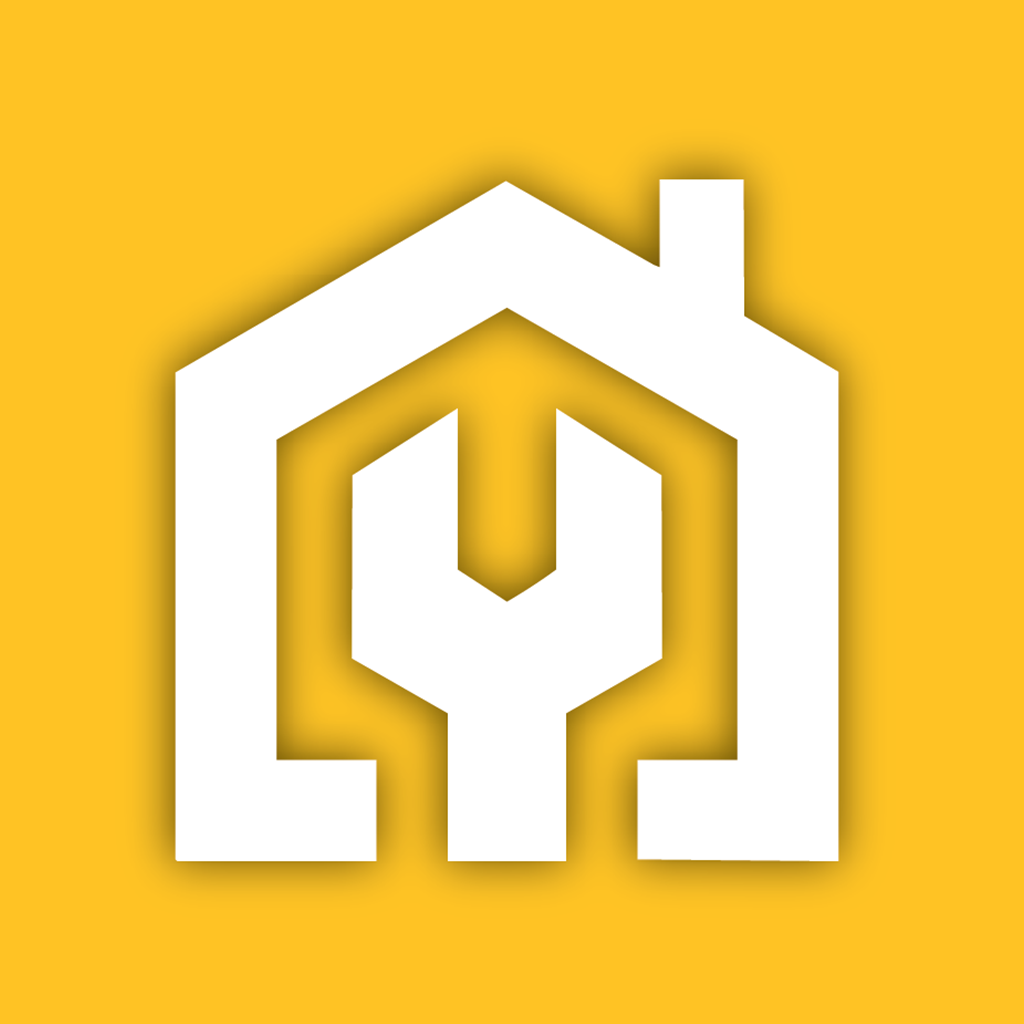
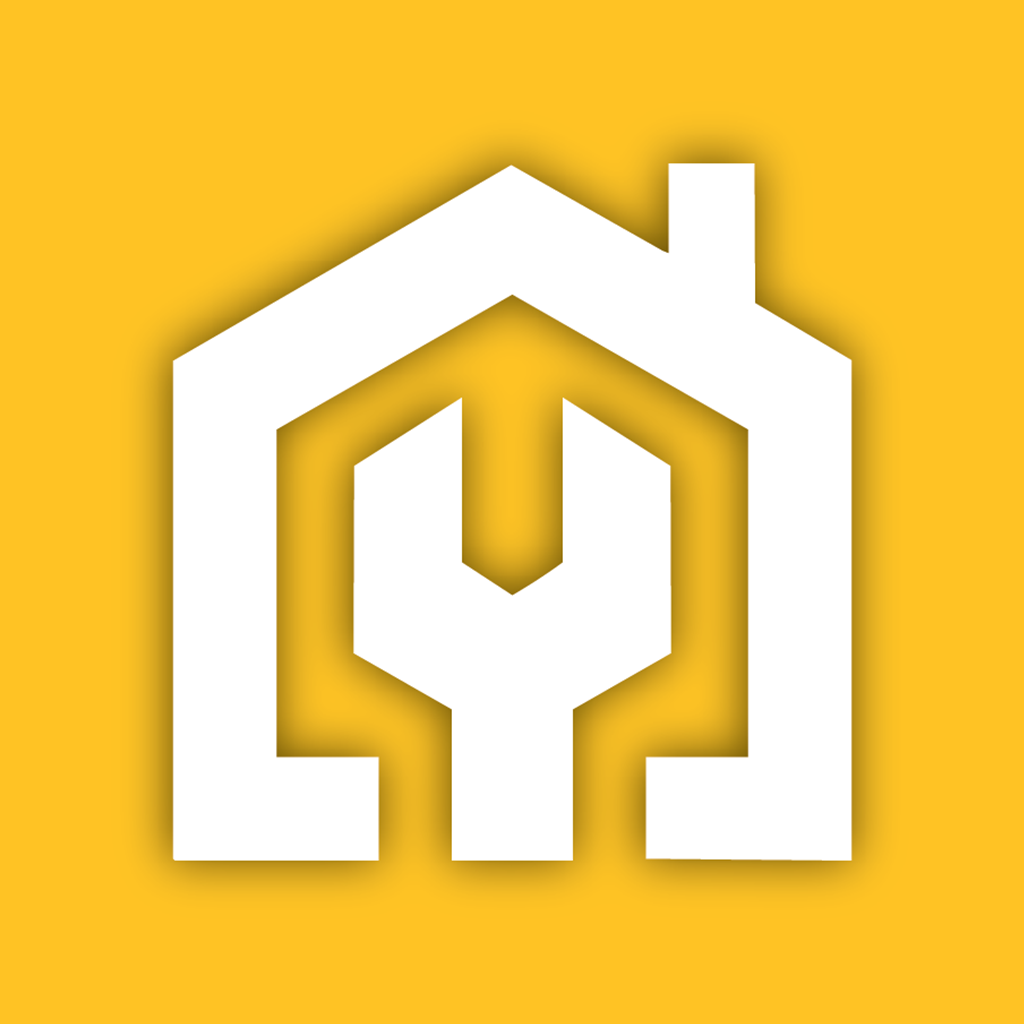
Add files via upload

diff --git a/www/index.html b/www/index.html
@@ -584,15 +584,15 @@
 /* ---- إعدادات المؤسسة (قابلة للتعديل) ---- */
 const BRAND = 'خافِت';
 const TAGLINE = 'صيانة منزلية موثوقة';
-const PHONE    = '[phone redacted]';        // رقم التواصل (عدّليه)
-const WHATSAPP = '[phone redacted]';      // واتساب بصيغة دولية بدون + (عدّليه)
+const PHONE    = '[phone redacted]';        // رقم التواصل (عدّله)
+const WHATSAPP = '[phone redacted]';      // واتساب بصيغة دولية بدون + (عدّله)
 const HOURS    = 'يومياً ٨ ص – ١٠ م'; // ساعات العمل
 const CITY     = 'الخبر';             // منطقة التغطية
 const WARRANTY = 'ضمان ٧ أيام';       // الضمان
 /* لوحة المؤسسة انتقلت لصفحة admin.html بحساب Supabase — ما عاد فيه رمز هنا */
 /* أيام الإجازة — ما نستقبل فيها حجوزات.
    الترقيم: ٠=الأحد ١=الإثنين ٢=الثلاثاء ٣=الأربعاء ٤=الخميس ٥=الجمعة ٦=السبت
-   حالياً: الجمعة إجازة. تبين تضيفين السبت؟ خليها [5,6] */
+   حالياً: الجمعة إجازة. لإضافة السبت اجعلها [5,6] */
 const OFF_DAYS = [5];
 const WORK_START = 8 * 60;
 const WORK_END   = 22 * 60;
@@ -604,7 +604,6 @@ const MAX_JOBS_PER_DAY = 8;    // أقصى عدد حجوزات في اليوم (
 const QUICK_DURATION   = 90;   // مدة افتراضية أكبر للطلب السريع/المعاينة (حجمه مجهول)
 const LOYALTY_TARGET = 5;   // كل ٥ طلبات مدفوعة، السادس مجاني كامل
 const COMMISSION = 3;       // عمولة المنصة لكل طلب مكتمل عبر مزوّد (مخفية عن العميل)
-// أكواد الخصم (عدّليها/أضيفي أكواد — الكود : نسبة الخصم %)
 /* أكواد الخصم الثابتة أُلغيت — صار النظام أكواد إحالة شخصية عشوائية
    يولّدها الخادم ويتحقّق منها (خصم ١٠٪ لأول طلب + ٥ ر.س للمُحيل بعد الإنجاز). */
 // باقات الاشتراك السنوي (النموذج الآمن — مو «لا محدودة»)
@@ -631,7 +630,7 @@ const PLANS = [
 ];
 const SAVE_KEY = 'siyanah_v1';
 
-/* ---- ربط قاعدة البيانات Supabase (غيّري القيمتين بمفاتيح مشروعك لو مختلف) ---- */
+/* ---- ربط قاعدة البيانات Supabase (غيّر القيمتين بمفاتيح مشروعك لو مختلف) ---- */
 const SUPABASE_URL  = 'https://zulogtqxbuqxmdmjpzqj.supabase.co';
 const SUPABASE_ANON = 'sb_publishable_ssggqTzT4GG4sreXV1LObQ_C3yiYhaG';
 
@@ -812,13 +811,17 @@ function getPushPlugin(){
   try{ if(typeof C.registerPlugin==='function') return C.registerPlugin('PushNotifications'); }catch(e){}
   return (C.Plugins && C.Plugins.PushNotifications) || null;
 }
+let _pn=null, _pnReady=false;
 async function initPush(){
   if(!inApp()){ setPushState('متصفح — الإشعارات للتطبيق فقط'); return; }
   try{
-    const PN = getPushPlugin();
+    const PN = _pn || getPushPlugin();
     if(!PN){ setPushState('❌ إضافة الإشعارات غير مثبّتة'); return; }
+    _pn = PN;
+    if(_pnReady) return void registerNow(PN);   // المستمعات مركّبة — أعد الطلب فقط
 
-    PN.addListener('registration', async (t)=>{
+    // ⚠️ لازم *ننتظر* تركيب المستمعات قبل register — وإلا يوصل ردّ آبل وما فيه أحد يسمعه
+    await PN.addListener('registration', async (t)=>{
       try{
         if(!myUid) await ensureAnonSession();
         const { error } = await sb.from('khafet_devices').upsert(
@@ -829,15 +832,22 @@ async function initPush(){
         setPushState('✅ الجهاز مسجّل — الإشعارات شغّالة');
       }catch(e){ setPushState('❌ فشل حفظ الجهاز: '+(e.message||e)); }
     });
-    PN.addListener('registrationError', e=> setPushState('❌ رفضتها آبل: '+JSON.stringify(e)));
-    PN.addListener('pushNotificationActionPerformed', ()=>{ go('mybookings'); });
-
+    await PN.addListener('registrationError', e=> setPushState('❌ رفضتها آبل: '+JSON.stringify(e)));
+    await PN.addListener('pushNotificationActionPerformed', ()=>{ go('mybookings'); });
+    _pnReady = true;
+    await registerNow(PN);
+  }catch(e){ setPushState('❌ خطأ: '+(e.message||e)); }
+}
+async function registerNow(PN){
+  try{
     let perm = await PN.checkPermissions();
     if(perm.receive === 'prompt' || perm.receive === 'prompt-with-rationale') perm = await PN.requestPermissions();
-    if(perm.receive !== 'granted'){ setPushState('⚠️ الإذن مرفوض ('+perm.receive+') — فعّليه من إعدادات الآيفون'); return; }
+    if(perm.receive !== 'granted'){ setPushState('⚠️ الإذن مرفوض ('+perm.receive+') — فعّله من إعدادات الآيفون'); return; }
     setPushState('⏳ نسجّل الجهاز…');
     await PN.register();
-  }catch(e){ setPushState('❌ خطأ: '+(e.message||e)); }
+    // لو آبل ما ردّت خلال ١٥ ثانية، قل ذلك بدل ما تعلّق للأبد
+    setTimeout(()=>{ if(pushState.indexOf('⏳')===0) setPushState('⚠️ آبل ما ردّت — تأكد من الإنترنت واضغط «أعد المحاولة»'); }, 15000);
+  }catch(e){ setPushState('❌ خطأ بالتسجيل: '+(e.message||e)); }
 }
 // حمّل الأسعار المعدّلة من لوحة المؤسسة وطبّقها على الكتالوج
 async function loadPrices(){
@@ -923,7 +933,7 @@ async function loadOrdersFromCloud(){
     if(cloudFails>=3){
       cloudReady=false;
       try{ sb.removeAllChannels(); }catch(_){}
-      console.warn('خافِت: أوقفت المزامنة السحابية — شغّلي ملف supabase/orders.sql ثم أعيدي تحميل الصفحة. الموقع يعمل محلياً الآن.');
+      console.warn('خافِت: أوقفت المزامنة السحابية — شغّل ملف supabase/orders.sql ثم أعيدي تحميل الصفحة. الموقع يعمل محلياً الآن.');
     }
   }finally{ cloudLoading=false; }
 }
@@ -1076,7 +1086,7 @@ function myOrders(){ const ids=state.myOrderIds||[]; const ph=state.customer&&st
    الرمز يُرسل ويُتحقق منه في خادم Supabase — المتصفح ما يقدر يتجاوزه.
    لو العميل داخل بهوية مجهولة، نربط الرقم بنفس الهوية عشان طلباته القديمة تنتقل معه. */
 /* قناة إرسال الرمز: 'whatsapp' أرخص وما يحتاج تسجيل مُرسِل بـCITC.
-   لو احتجتِ ترجعين للرسائل النصية، غيّريها لـ'sms' — وبس. */
+   للرجوع للرسائل النصية، غيّرها لـ'sms' — وبس. */
 const OTP_CHANNEL='whatsapp';
 let otpStep=false, otpPhone='', otpMode='';   // otpMode: 'link' | 'signin'
 
@@ -1095,13 +1105,13 @@ function renderLogin(){
   const chIco  = OTP_CHANNEL==='whatsapp' ? '💬' : '📩';
   const body = otpStep ? `
       <h3>${chIco} رمز التحقق</h3>
-      <p style="color:var(--muted);font-size:.9rem;margin:4px 0 12px">أرسلنا لك رمزاً على <b>${chName}</b> إلى <b dir="ltr">${esc(otpPhone)}</b></p>
+      <p style="color:var(--muted);font-size:.9rem;margin:4px 0 12px">أرسلنا رمزاً إلى <b dir="ltr">${esc(otpPhone)}</b></p>
       <div class="field"><label>الرمز</label><input id="lg_otp" inputmode="numeric" maxlength="6" placeholder="------" style="letter-spacing:.5em;text-align:center;font-weight:900" onkeydown="if(event.key==='Enter')verifyOtpCode()" /></div>
       <button class="cta" onclick="verifyOtpCode()">تأكيد ودخول</button>
       <button class="ghost" style="width:100%;margin-top:8px" onclick="otpStep=false;render()">← تغيير الرقم</button>`
     : `
       <h3>👤 حسابي</h3>
-      <p style="color:var(--muted);font-size:.9rem;margin:4px 0 12px">أدخل رقم جوالك — يوصلك رمز على <b>${chName}</b>، وتشوف طلباتك ونقاط ولائك على أي جهاز.</p>
+      <p style="color:var(--muted);font-size:.9rem;margin:4px 0 12px">أدخل رقم جوالك ويوصلك رمز على <b>${chName}</b></p>
       <div class="field"><label>رقم الجوال</label><input id="lg_cust_phone" value="${esc(ph)}" inputmode="tel" placeholder="05xxxxxxxx" onkeydown="if(event.key==='Enter')sendOtp()" /></div>
       <button class="cta" onclick="sendOtp()">${chIco} أرسل الرمز على ${chName}</button>`;
   document.getElementById('app').innerHTML=`
@@ -1219,14 +1229,14 @@ function renderAccount(){
             <b style="font-size:1.9rem;line-height:1.2">${ar(myRef.balance)} <span style="font-size:1rem">ر.س</span></b></div>
           <div style="font-size:2.4rem">💰</div>
         </div>
-        <p style="color:#fff;opacity:.92;font-size:.84rem;margin-top:8px">يُخصم تلقائياً من طلبك الجاي</p>
+        <p style="color:#fff;opacity:.92;font-size:.84rem;margin-top:8px">يُخصم من طلبك الجاي</p>
       </div>`:''}
       <div class="panel"><h3>🎟️ كودك الخاص</h3>
         ${code?`
         <div class="ref-code"><b>${esc(code)}</b><button class="sbtn ok" onclick="copyCode('${esc(code)}')">📋 نسخ</button></div>
         <button class="cta" style="margin-top:10px" onclick="shareCode('${esc(code)}')">📤 شارك كودك</button>
         <p style="color:var(--muted);font-size:.85rem;margin-top:10px">
-          صاحبك ياخذ <b>خصم ١٠٪</b> على أول طلب — وأنتِ تاخذين <b>٥ ر.س رصيد</b> بعد ما يخلص طلبه ✅</p>
+          شاركه مع أصحابك — يحصلون على <b>خصم ١٠٪</b>، ولك <b>٥ ر.س رصيد</b> مقابل كل واحد يخلّص طلبه.</p>
         ${myRef.referrals>0?`<div style="margin-top:10px;padding:10px 12px;background:var(--gold-tint);border-radius:10px;font-weight:800;font-size:.9rem">
           🎉 أحلتِ ${ar(myRef.referrals)} ${myRef.referrals===1?'شخص':'أشخاص'} — شكراً لك!</div>`:''}
         `:`<p style="color:var(--muted);font-size:.88rem">جارٍ تجهيز كودك…</p>`}
@@ -1354,12 +1364,7 @@ function renderHome(){
   const L=myLoyalty();
   const dots=Array.from({length:LOYALTY_TARGET},(_,i)=>`<i class="${i<L.progress?'on':''}"></i>`).join('');
   const tkTitle=(L.freeAvailable>0) ? 'لديك طلب مجاني بانتظارك 🎉' : 'الطلب السادس مجاني';
-  // نقول الحقيقة: النقاط تتبع الجهاز لين يسجّل برقمه
-  const tkSub = isVerified
-    ? `أنجزت ${ar(L.progress)} من ${ar(LOYALTY_TARGET)} · محفوظ بحسابك على أي جهاز ✅`
-    : (L.done>0
-        ? `أنجزت ${ar(L.progress)} من ${ar(LOYALTY_TARGET)} · سجّل برقمك ليُحفظ على أي جهاز`
-        : `كل ${ar(LOYALTY_TARGET)} طلبات · سجّل برقمك ليُحفظ على أي جهاز`);
+  const tkSub = `أنجزت ${ar(L.progress)} من ${ar(LOYALTY_TARGET)} طلبات`;
   const GIFT_SVG='<svg viewBox="0 0 24 24" fill="none" stroke="currentColor" stroke-width="2" stroke-linecap="round" stroke-linejoin="round"><rect x="3.5" y="9" width="17" height="12" rx="1"/><path d="M3.5 13h17M12 9v12"/><path d="M12 9C10 9 7.5 8.4 7.5 6.4 7.5 5 9 4.5 10 5.2c1.4 1 2 3.8 2 3.8Zm0 0c2 0 4.5-.6 4.5-2.6 0-1.4-1.5-1.9-2.5-1.2-1.4 1-2 3.8-2 3.8Z"/></svg>';
 
   // آراء العملاء الإيجابية (٤ نجوم فأكثر + كتبوا ملاحظة)
@@ -1579,7 +1584,7 @@ function renderPick(){
     <div class="wrap screen" style="padding-bottom:100px">
       ${pageHead(CATS[currentCat].ico+' '+CATS[currentCat].name,'home')}
       ${stepBar(1)}
-      <p style="text-align:center;color:var(--muted);font-size:.9rem;margin-top:6px">اختر اللي تحتاجه — تقدر تختار أكثر من خدمة.</p>
+      <p style="text-align:center;color:var(--muted);font-size:.9rem;margin-top:6px">اختر اللي تحتاجه — تقدر تختار أكثر من خدمة</p>
       <div class="srows">${rows}</div>
       <a class="addmore" onclick="go('home')">＋ أضف من قسم آخر</a>
     </div>
@@ -1884,7 +1889,6 @@ function locateMe(){
 }
 
 let lastOrderId=null;
-let lastSaveError='';   // سبب فشل الحفظ السحابي (يُعرض بشاشة التأكيد)
 async function confirmOrder(){
   captureBookingInputs();
   const c=state.customer,a=state.address,b=state.booking;
@@ -1946,8 +1950,7 @@ async function confirmOrder(){
         message: e && e.message, code: e && e.code,
         details: e && e.details, hint: e && e.hint, raw: e
       });
-      lastSaveError = (e && (e.message || e.details || e.hint)) || String(e);
-      toast('⚠️ ما وصل الخادم: ' + lastSaveError);
+      toast('⚠️ ما وصل الطلب — أعد المحاولة');
     }
   }
   if(!order){ state.seq++; order=Object.assign({id:'#'+ar(state.seq), num:state.seq, dbId:null}, base); }
@@ -1971,12 +1974,9 @@ function renderConfirm(){
           <div class="ordno">رقم الطلب ${o.id}</div>
           <p style="color:var(--muted);margin-top:10px">${o.dbId
             ? 'وصلنا طلبك، وبنتواصل معك لتأكيد الموعد.'
-            : 'حُفظ على جهازك فقط — لم يصل إلى فريق خافِت. تواصل معنا أو أعد المحاولة.'}</p>
+            : 'ما وصلنا طلبك — أعد المحاولة أو تواصل معنا.'}</p>
         </div>
-        ${o.dbId?'':`<div style="background:#fdecea;border:1px solid #f5c6c2;border-radius:12px;padding:12px 14px;margin-bottom:14px">
-          <b style="color:#a3251c;font-size:.9rem">سبب عدم الوصول:</b>
-          <div style="font-size:.82rem;color:#a3251c;margin-top:5px;word-break:break-word" dir="ltr">${esc(lastSaveError||'اتصال غير متاح')}</div>
-        </div>`}
+        ${o.dbId?'':`<a class="cta" style="display:block;text-align:center;text-decoration:none;margin-bottom:14px" href="tel:${PHONE}">📞 اتصل بنا ${PHONE}</a>`}
         <div class="kv"><span>الخدمات</span><b style="max-width:60%">${itemsList}</b></div>
         <div class="kv"><span>الموعد</span><b>${dayLabel(o.date)} · ${windowLabel(o.startMin)}</b></div>
         <div class="kv"><span>المدة التقريبية</span><b>${fmtDuration(o.duration)} (ينتهي ~ ${fmtTime(o.endMin)})</b></div>

diff --git a/www/fanyeen.html b/www/fanyeen.html
@@ -214,8 +214,8 @@ const SUPABASE_URL  = 'https://zulogtqxbuqxmdmjpzqj.supabase.co';
 const SUPABASE_ANON = 'sb_publishable_ssggqTzT4GG4sreXV1LObQ_C3yiYhaG';
 const SAVE_KEY = 'siyanah_v1';
 const BRAND='خافِت'; const PHONE='[phone redacted]';
-/* ---- دخول الفنيين (غيّري اليوزر والباسورد) ---- */
-/* حساب الفنيين محفوظ في Supabase → Authentication (ما فيه كلمة مرور بالكود).
+/* ---- دخول الفنيين ----
+   حساب الفنيين محفوظ في Supabase → Authentication (ما فيه كلمة مرور بالكود).
    لتغيير كلمة المرور: Supabase → Authentication → Users → [email redacted] */
 const WORKER_EMAIL='[email redacted]';   // معرّف فقط — ليس سرّاً
 let loggedIn=false;                     // تُحدَّد من جلسة Supabase